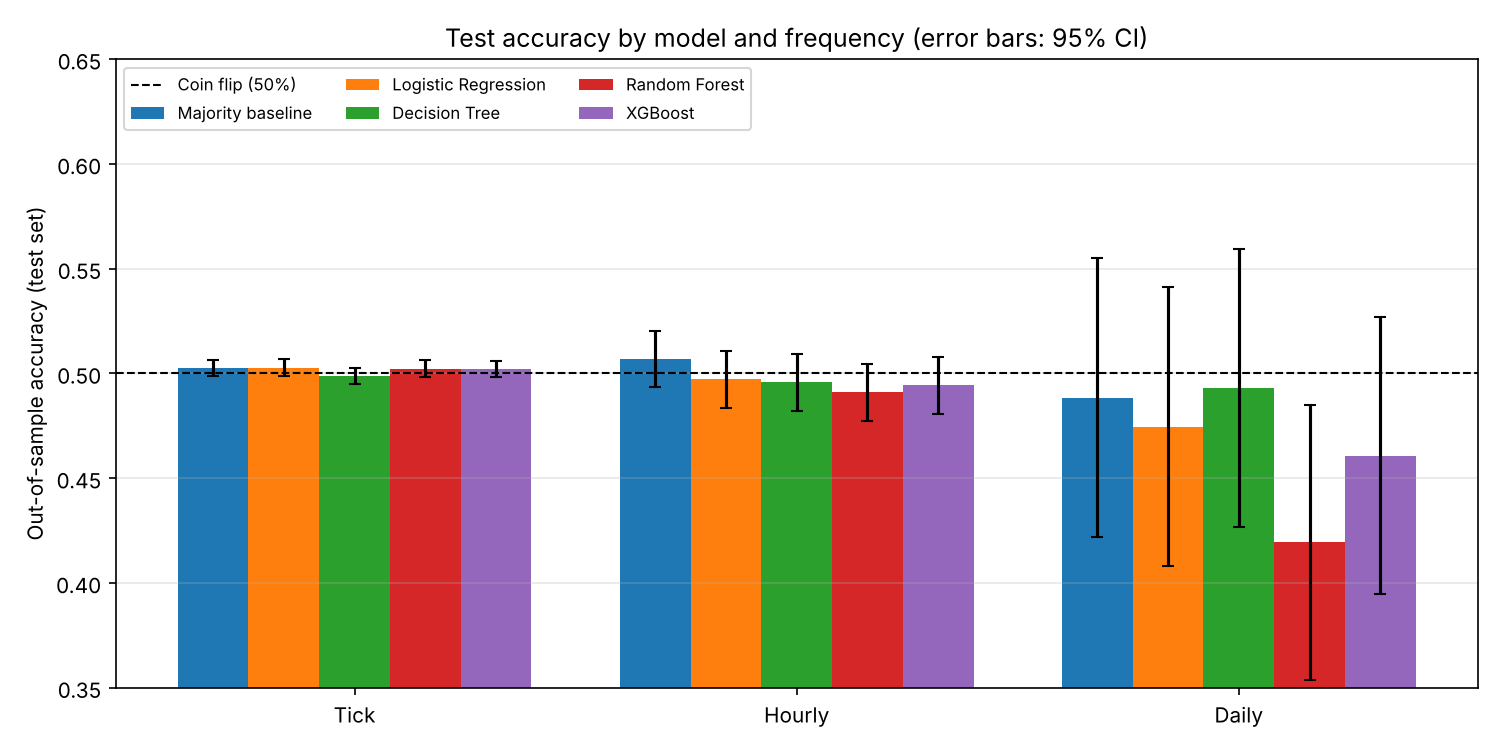
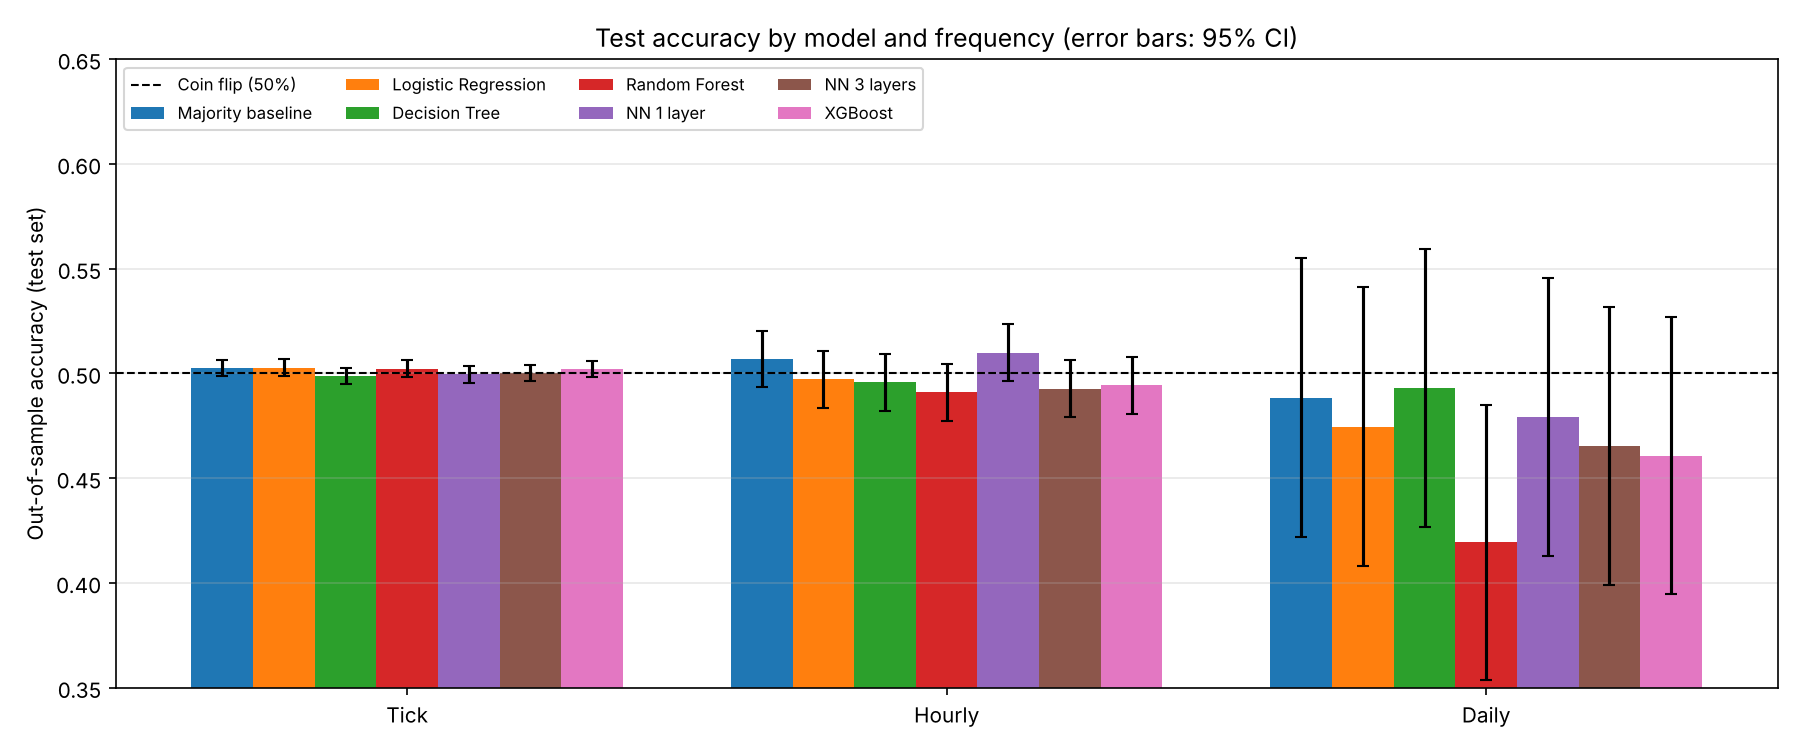
Add two small neural networks (1 and 3 hidden layers)
Adds scikit-learn MLPClassifier models with 16 and 64-32-16 hidden units
and shared training settings, configured in config.py. Prints a short note
when a network stops at max_iter instead of the raw ConvergenceWarning.
Updates the figures, results and README.

Claude-Session: https://claude.ai/code/session_01Vv6beNcK28yw91hTF13RFG

diff --git a/models.py b/models.py
@@ -6,9 +6,13 @@ scaling statistics are fitted on the training sample only (no leakage).
 Scaling does not change tree-based models but keeps the pipeline uniform.
 """
 
+import warnings
+
 from sklearn.dummy import DummyClassifier
+from sklearn.exceptions import ConvergenceWarning
 from sklearn.ensemble import RandomForestClassifier
 from sklearn.linear_model import LogisticRegression
+from sklearn.neural_network import MLPClassifier
 from sklearn.pipeline import Pipeline
 from sklearn.preprocessing import StandardScaler
 from sklearn.tree import DecisionTreeClassifier
@@ -23,6 +27,10 @@ def get_models(seed):
         "Logistic Regression": LogisticRegression(**config.LOGREG_PARAMS),
         "Decision Tree": DecisionTreeClassifier(random_state=seed, **config.TREE_PARAMS),
         "Random Forest": RandomForestClassifier(random_state=seed, **config.FOREST_PARAMS),
+        "NN 1 layer": MLPClassifier(hidden_layer_sizes=config.MLP_SHALLOW_LAYERS,
+                                    random_state=seed, **config.MLP_COMMON),
+        "NN 3 layers": MLPClassifier(hidden_layer_sizes=config.MLP_DEEP_LAYERS,
+                                     random_state=seed, **config.MLP_COMMON),
     }
     if config.USE_XGBOOST:
         try:
@@ -37,6 +45,12 @@ def get_models(seed):
 
 def train_models(models, X_train, y_train):
     """Fit every model on the training sample only."""
-    for model in models.values():
-        model.fit(X_train, y_train)
+    for name, model in models.items():
+        # On pure noise the networks may hit max_iter without converging; that
+        # is expected here, so print one short note instead of a long warning.
+        with warnings.catch_warnings(record=True) as caught:
+            warnings.simplefilter("always", ConvergenceWarning)
+            model.fit(X_train, y_train)
+        if any(issubclass(w.category, ConvergenceWarning) for w in caught):
+            print(f"  note: {name} stopped at max_iter without converging")
     return models

diff --git a/plots.py b/plots.py
@@ -58,7 +58,7 @@ def plot_accuracy_bars(results, out_dir):
     width = 0.8 / len(models)
     x = np.arange(len(freqs))
 
-    fig, ax = plt.subplots(figsize=(10, 5))
+    fig, ax = plt.subplots(figsize=(12, 5))
     for i, m in enumerate(models):
         sub = results[results["model"] == m].set_index("frequency").loc[freqs]
         ax.bar(x + i * width - 0.4 + width / 2, sub["accuracy"], width,
@@ -69,7 +69,7 @@ def plot_accuracy_bars(results, out_dir):
     ax.set_ylim(0.35, 0.65)
     ax.set_ylabel("Out-of-sample accuracy (test set)")
     ax.set_title("Test accuracy by model and frequency (error bars: 95% CI)")
-    ax.legend(fontsize=8, ncol=3, loc="upper left")
+    ax.legend(fontsize=8, ncol=4, loc="upper left")
     ax.grid(axis="y", alpha=0.3)
     fig.tight_layout()
     fig.savefig(os.path.join(out_dir, "03_accuracy_comparison.png"), dpi=150)

diff --git a/config.py b/config.py
@@ -44,6 +44,14 @@ FOREST_PARAMS = dict(n_estimators=200, max_depth=6, min_samples_leaf=50, n_jobs=
 XGB_PARAMS = dict(n_estimators=200, max_depth=3, learning_rate=0.05,
                   subsample=0.8, n_jobs=-1)
 
+# Small neural networks (multi-layer perceptrons). Both share the same training
+# settings; only the architecture differs. No early stopping, because it would
+# carve a *shuffled* validation set out of the training data.
+MLP_COMMON = dict(activation="relu", alpha=1e-3, learning_rate_init=1e-3,
+                  batch_size=256, max_iter=200)
+MLP_SHALLOW_LAYERS = (16,)          # 1 hidden layer with 16 neurons
+MLP_DEEP_LAYERS = (64, 32, 16)      # 3 hidden layers
+
 # ---------------------------------------------------------------------------
 # Output
 # ---------------------------------------------------------------------------

diff --git a/README.md b/README.md
@@ -20,7 +20,7 @@ pip install -r requirements.txt
 python main.py
 ```
 
-It takes about 20–30 seconds. All tables and figures are written to `results/`.
+It takes about 1 minute (the neural networks on 189k tick rows take most of it). All tables and figures are written to `results/`.
 
 To change the simulation (drift, volatility, length, seed), the features or the
 model hyperparameters, edit `config.py`.
@@ -34,7 +34,7 @@ model hyperparameters, edit `config.py`.
 | `config.py` | All parameters (GBM, features, split, model hyperparameters) |
 | `data.py` | GBM simulation, OHLC aggregation, aggregation checks, CSV loader for real data |
 | `features.py` | Features, UP/DOWN target, chronological 60/20/20 split |
-| `models.py` | Majority baseline, Logistic Regression, Decision Tree, Random Forest, XGBoost (optional) |
+| `models.py` | Majority baseline, Logistic Regression, Decision Tree, Random Forest, two small neural networks, XGBoost (optional) |
 | `evaluation.py` | Accuracy, balanced accuracy, F1, confusion matrix |
 | `plots.py` | All figures |
 | `main.py` | Runs the full experiment |
@@ -103,6 +103,11 @@ The first 10 rows (warm-up) and the last row (no next price) are dropped.
   * Decision Tree: depth 5, min 50 samples per leaf
   * Random Forest: 200 trees, depth 6, min 50 samples per leaf
   * XGBoost: 200 trees, depth 3, learning rate 0.05
+  * Neural network, 1 hidden layer: 16 neurons
+  * Neural network, 3 hidden layers: 64 → 32 → 16 neurons
+  * Both networks (scikit-learn `MLPClassifier`): ReLU, Adam, L2 penalty 0.001,
+    batch 256, max 200 epochs. Early stopping is off because it would draw a
+    *shuffled* validation sample from the training data.
 * Baseline: always predict the majority class **of the training set**.
 
 ---
@@ -128,16 +133,22 @@ accuracy can vary by chance alone.
 | tick | Logistic Regression | 63,070 | 0.503 ± 0.004 | 0.502 | 0.434 |
 | tick | Decision Tree | 63,070 | 0.499 ± 0.004 | 0.498 | 0.471 |
 | tick | Random Forest | 63,070 | 0.502 ± 0.004 | 0.502 | 0.415 |
+| tick | NN 1 layer | 63,070 | 0.499 ± 0.004 | 0.500 | 0.566 |
+| tick | NN 3 layers | 63,070 | 0.500 ± 0.004 | 0.500 | 0.496 |
 | tick | XGBoost | 63,070 | 0.502 ± 0.004 | 0.502 | 0.462 |
 | hourly | Majority baseline | 5,254 | 0.507 ± 0.013 | 0.500 | 0.000 |
 | hourly | Logistic Regression | 5,254 | 0.497 ± 0.013 | 0.494 | 0.349 |
 | hourly | Decision Tree | 5,254 | 0.496 ± 0.013 | 0.494 | 0.409 |
 | hourly | Random Forest | 5,254 | 0.491 ± 0.013 | 0.489 | 0.383 |
+| hourly | NN 1 layer | 5,254 | 0.510 ± 0.013 | 0.509 | 0.462 |
+| hourly | NN 3 layers | 5,254 | 0.493 ± 0.013 | 0.493 | 0.487 |
 | hourly | XGBoost | 5,254 | 0.494 ± 0.013 | 0.493 | 0.459 |
 | daily | Majority baseline | 217 | 0.488 ± 0.067 | 0.500 | 0.000 |
 | daily | Logistic Regression | 217 | 0.475 ± 0.066 | 0.476 | 0.457 |
 | daily | Decision Tree | 217 | 0.493 ± 0.067 | 0.492 | 0.513 |
 | daily | Random Forest | 217 | 0.419 ± 0.066 | 0.420 | 0.417 |
+| daily | NN 1 layer | 217 | 0.479 ± 0.067 | 0.479 | 0.479 |
+| daily | NN 3 layers | 217 | 0.465 ± 0.066 | 0.467 | 0.437 |
 | daily | XGBoost | 217 | 0.461 ± 0.066 | 0.460 | 0.475 |
 
 F1 is computed for the UP class. The majority baseline predicts only DOWN here,
@@ -153,11 +164,17 @@ so its F1 is 0 by construction.
   tick, 50.1% per hour and 50.6% per day. Sampling noise is larger than that
   bias: in this sample the training set even has slightly more DOWN moves, so
   the majority baseline predicts DOWN.
+* **Neural networks don't help either.** Both networks score about 50% on
+  tick data. The 1-layer network's 51.0% on hourly data is inside the chance
+  band, and the 3-layer network does no better than the 1-layer one. Extra
+  layers add capacity, but there is no pattern to capture. On hourly and
+  daily data the networks hit the 200-epoch limit without converging: they
+  keep fitting noise in the training set, which is overfitting.
 * **Fewer observations means noisier results.** The confidence band is
   ±0.4 pp for tick data, ±1.3 pp for hourly and ±6.7 pp for daily. With only
   217 daily test points, single results move a lot by chance. The Random
   Forest's 41.9% daily accuracy is noise and overfitting, not a real
-  "anti-signal", and it is one of 15 comparisons.
+  "anti-signal", and it is one of 21 comparisons.
 * **Feature importance is close to uniform** for tick and hourly data. The
   daily Random Forest leans more on the latest returns, but this is fitted
   noise from a small sample, as its poor test score shows.
